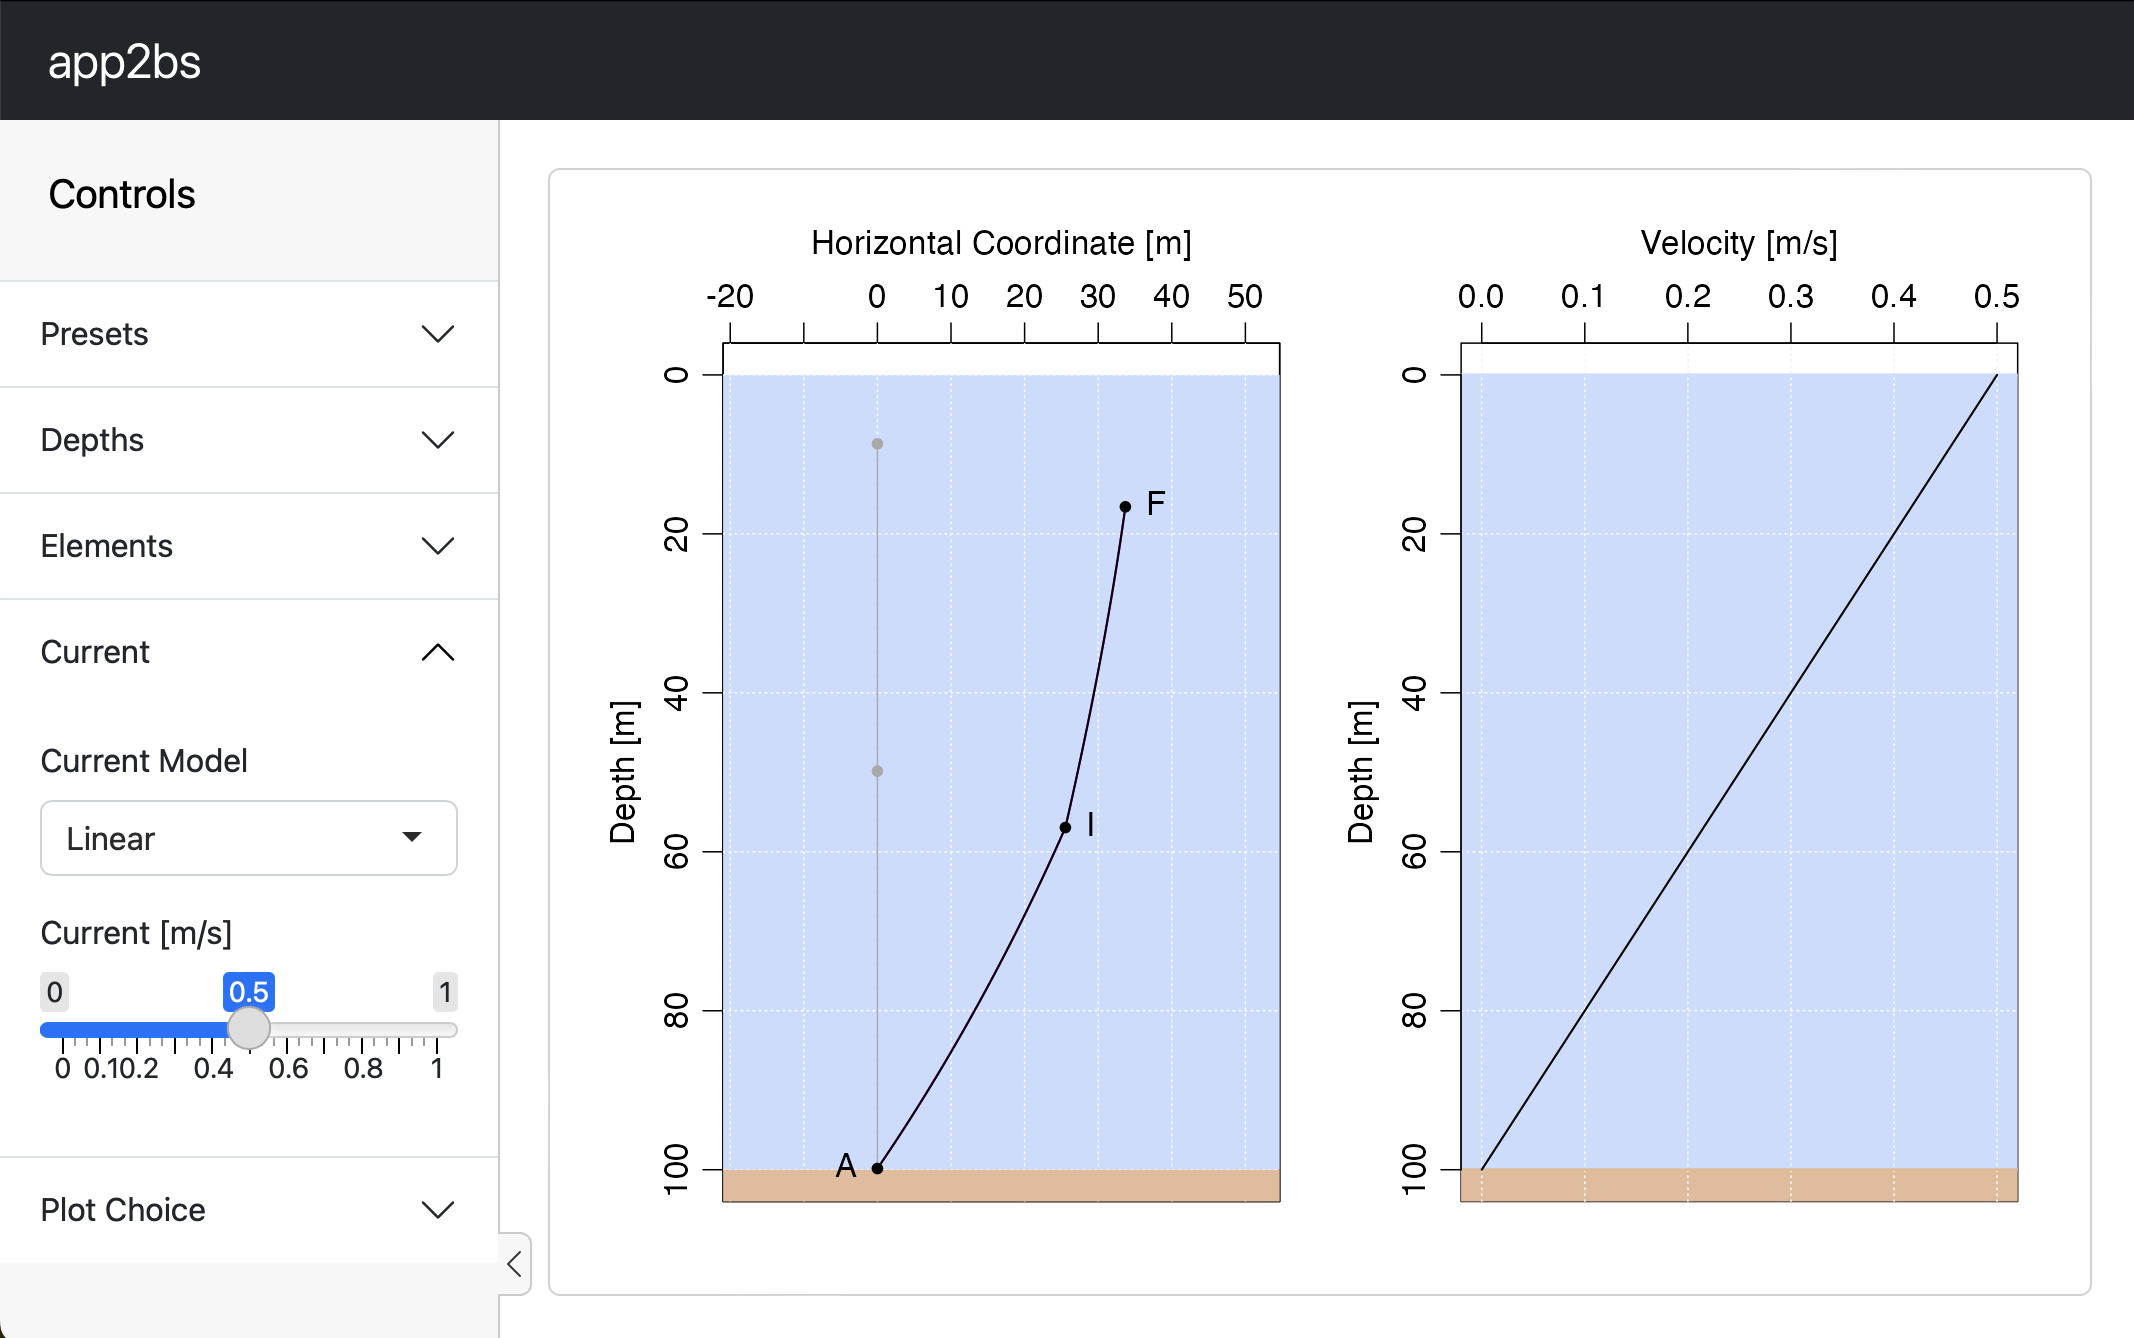
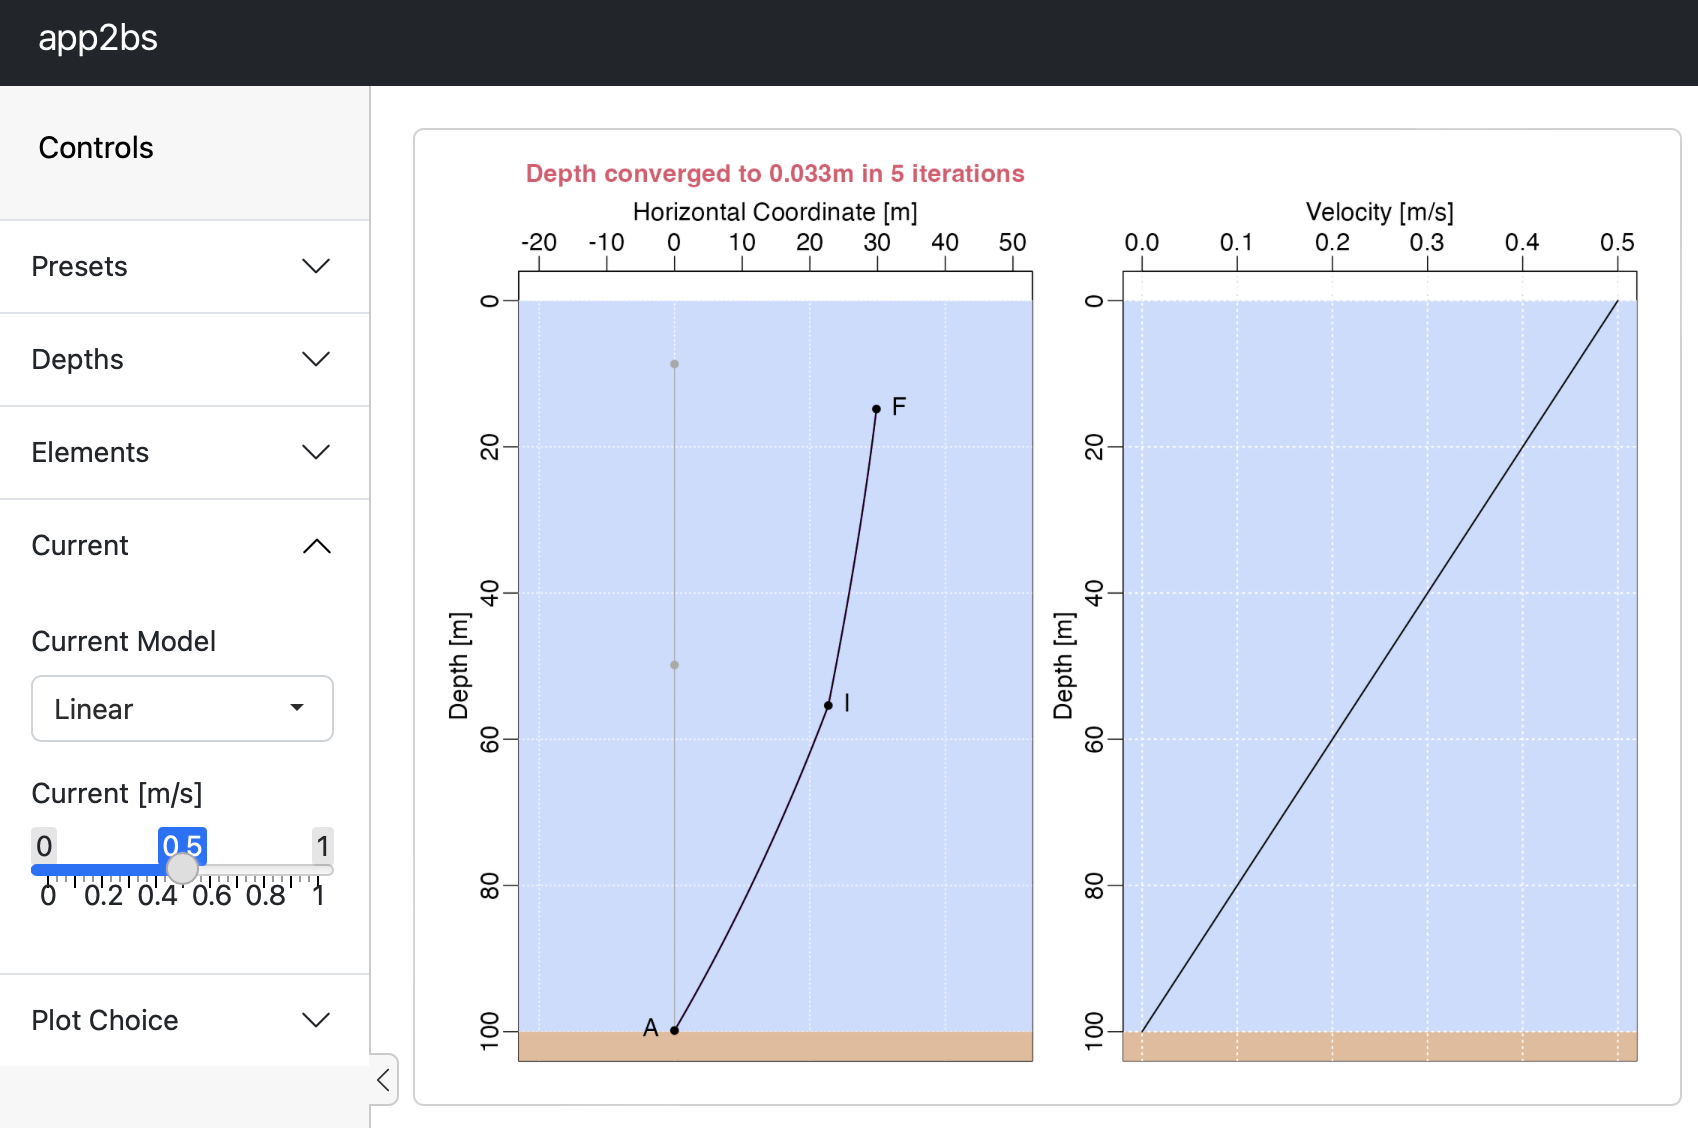
knockdown(): store convergence info in return value

diff --git a/docs/reference/knockdown.html b/docs/reference/knockdown.html
@@ -111,19 +111,18 @@ below the ocean surface.</p></dd>
 
 
 <dt>niteration</dt>
-<dd><p>integer value setting maximum number of iterations
-that will be taken in order to achieve convergence (see also
+<dd><p>integer value setting maximum number of iterations that
+will be taken in order to achieve convergence (see also
 <code>convergenceCriterion</code>).</p></dd>
 
 
 <dt>convergenceCriterion</dt>
-<dd><p>numeric value giving a convergence criterion
-to stop iterating the solution.  If the RMS difference in z values
-between iterations falls below the product of <code>convergenceCriterion</code> and the water
-depth, then the iteration loop is stopped early. Otherwise, once
-<code>niteration</code> iterations are permitted, a warning is issued.  (Setting
-<code>debug</code> to a positive value will cause information about each
-iteration to be printd.)</p></dd>
+<dd><p>numeric value giving a convergence criterion to
+stop iterating the solution.  If the RMS difference in z values between
+iterations falls below the product of <code>convergenceCriterion</code> and the water
+depth, then the iteration loop is stopped early. Otherwise, once <code>niteration</code>
+iterations are permitted, a warning is issued.  (Setting <code>debug</code> to a
+positive value will cause information about each iteration to be printd.)</p></dd>
 
 
 <dt>debug</dt>
@@ -136,8 +135,14 @@ information may be printed by the function.</p></dd>
     <h2>Value</h2>
     
 
-<p>a new <code>mooring</code> object representing the deformed mooring, with
-<code>x</code> and <code>z</code> values updated (and original values saved as <code>x0</code> and <code>z0</code>).</p>
+<p>a new <code>mooring</code> object representing the deformed mooring, with <code>x</code></p>
+
+
+<p>and <code>z</code> values updated (and original values saved as <code>x0</code> and <code>z0</code>). In
+addition, the stress and angle of each element is stored in fields named
+<code>tau</code> and <code>phi</code>, the latter in radians.  Attributes are added to the object
+to describe the solution in more detail.  The <code>u</code> attribute stores the value
+supplied to <code>knockdown()</code>, and <code>waterDepth' stores the water depth that was supplied to the [anchor()] call.  An overview of the iterative solution is provided in the </code>iterationCount<code>and</code>iterationChange<code>attributes, which store the number of iterations used in the computation, and the RMS change in</code>z` over the final iteration.</p>
     </div>
     <div id="author">
     <h2>Author</h2>

diff --git a/docs/news/index.html b/docs/news/index.html
@@ -75,7 +75,7 @@
     <div class="section level2">
 <h2 class="page-header" data-toc-text="0.1.3" id="mooring-013">mooring 0.1.3<a class="anchor" aria-label="anchor" href="#mooring-013"></a></h2>
 <ul><li>
-<code><a href="../reference/knockdown.html">knockdown()</a></code> uses iterations, to handle depth-varying currents better.</li>
+<code><a href="../reference/knockdown.html">knockdown()</a></code> uses an iteration method to improve accuracy.</li>
 </ul></div>
     <div class="section level2">
 <h2 class="page-header" data-toc-text="0.1.2" id="mooring-012">mooring 0.1.2<a class="anchor" aria-label="anchor" href="#mooring-012"></a></h2>

diff --git a/NEWS.md b/NEWS.md
@@ -1,6 +1,6 @@
 # mooring 0.1.3
 
-* `knockdown()` uses iterations, to handle depth-varying currents better.
+* `knockdown()` uses an iteration method to improve accuracy.
 
 # mooring 0.1.2
 
